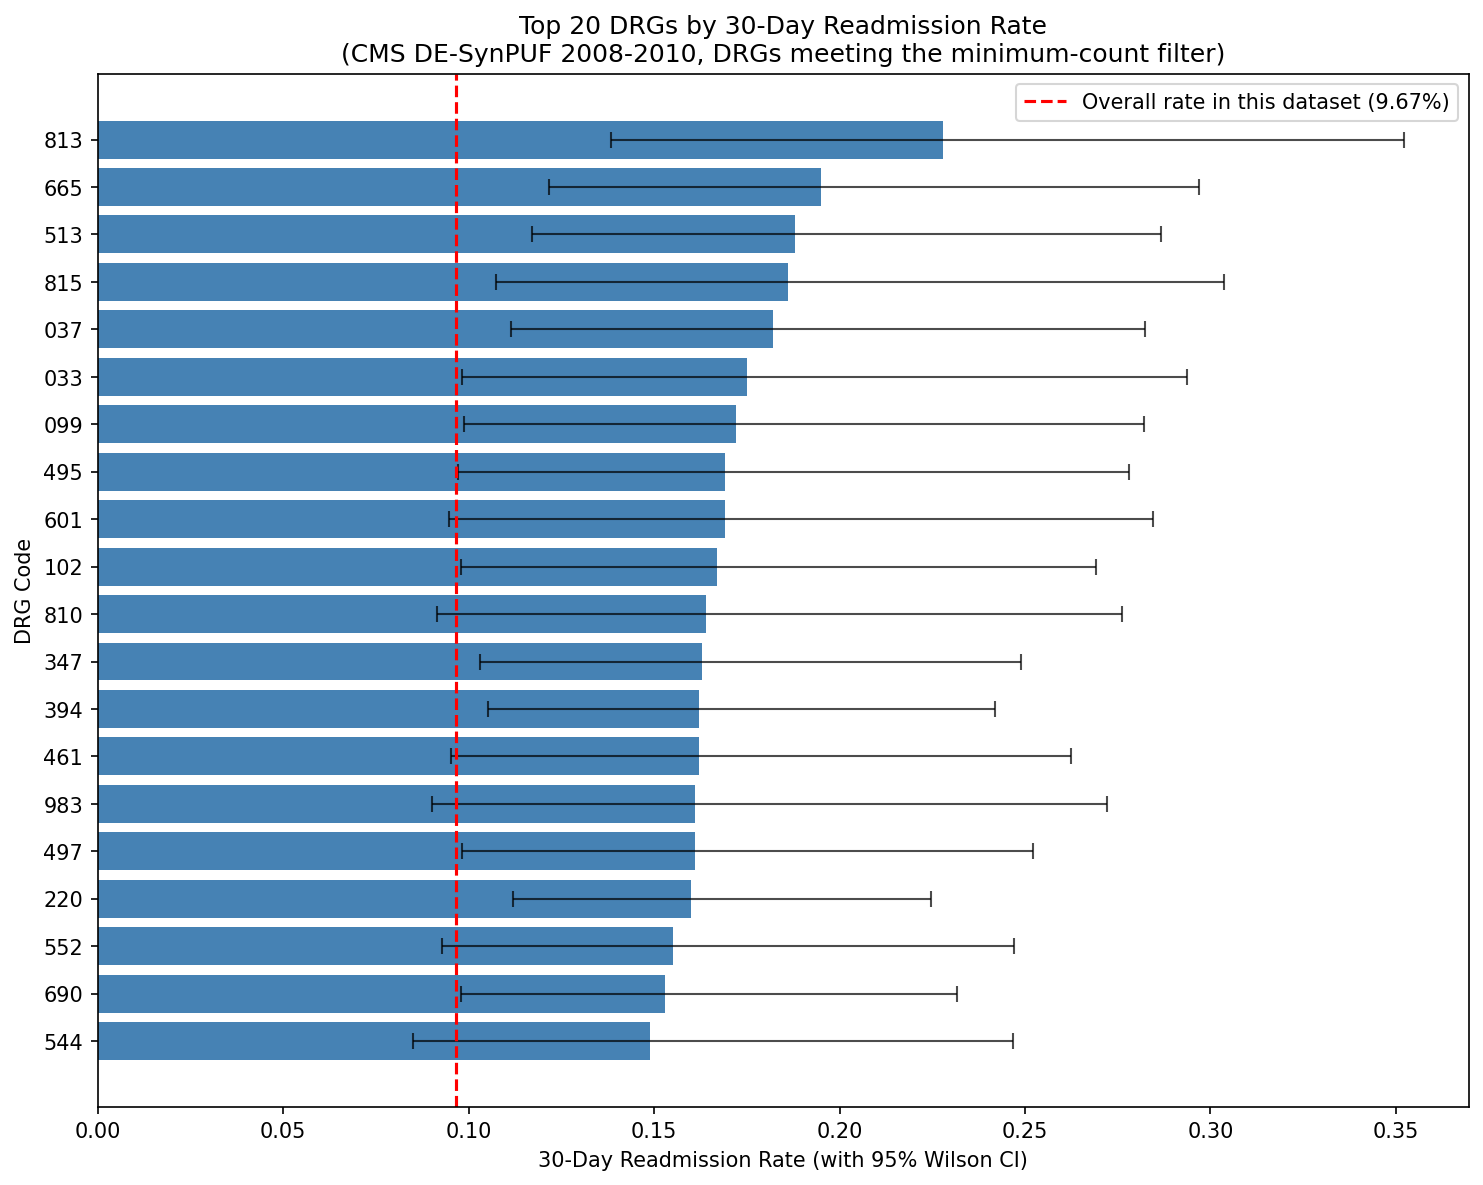
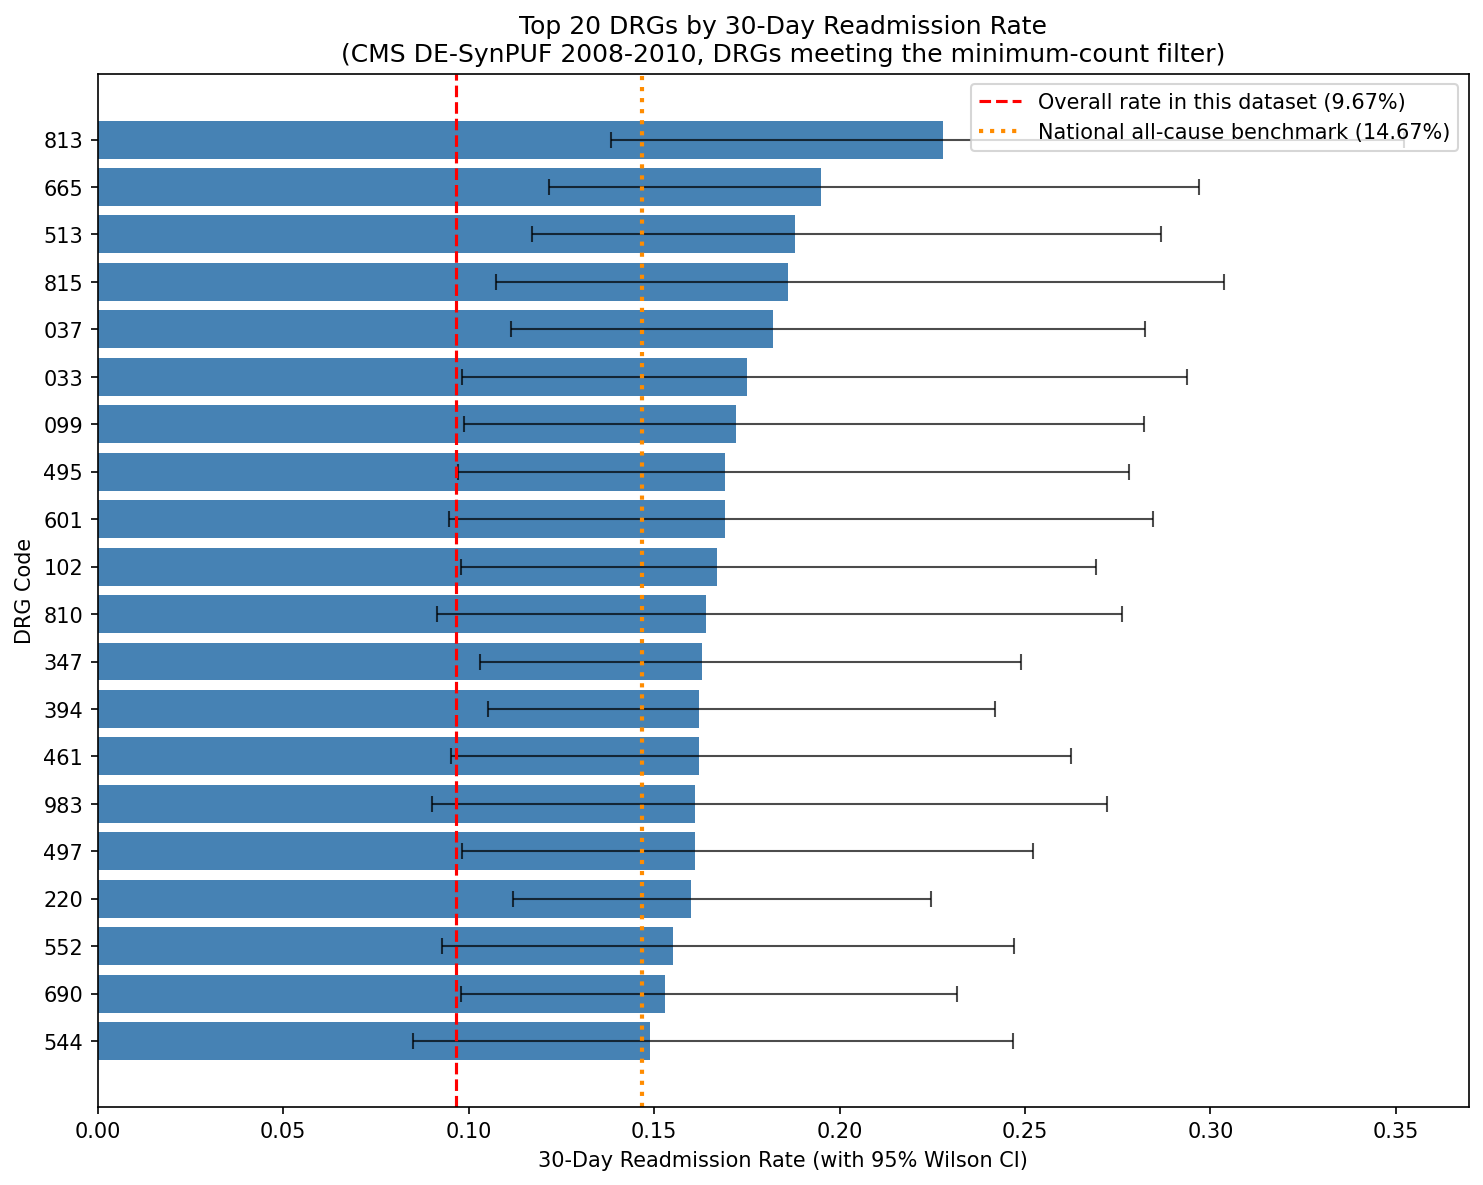
Add national benchmark line and selection caveat to DRG chart
- Add 14.67% national all-cause benchmark (Definitive Healthcare, 2025) as a second reference line on the top-20 DRG readmission chart, alongside the 9.67% dataset rate
- Add caption: these are the top 20 of 256 DRGs meeting the minimum-count filter, so rates likely overstate true values and some intervals above 9.67% are expected by chance
- Regenerate images/top20_drg_readmission_rate.png
- README: Update DRG chart description

Changed region(s): [[0.6514, 0.0624, 0.9926, 0.1249]]

diff --git a/README.md b/README.md
@@ -63,7 +63,7 @@ for the zero-coverage caveat). The PMPM decline from 2008 to 2010 reflects falli
 
 ![Top 20 DRGs by 30-Day Readmission Rate](images/top20_drg_readmission_rate.png) 
 
-*Dashed line: overall 30-day readmission rate in this dataset (9.67%). The 14.67% national benchmark discussed above is context only and is not drawn. Error bars: 95% Wilson CIs. These are the 20 highest rates among DRGs meeting the minimum-count filter, so they tend to overstate true rates.* 
+*Red dashed line: overall 30-day readmission rate in this dataset (9.67%). Yellow dotted line: 2025 national all-cause benchmark (14.67%). Error bars: 95% Wilson CIs. These are the 20 highest rates among the 256 DRGs meeting the minimum-count filter, so they tend to overstate true rates. With 256 DRGs, some intervals will sit above the 9.67% line by chance alone; these DRGs are candidates for continued monitoring, not confirmed high-risk groups.*
 
 ![HRRP Condition Readmission Rates vs National Benchmarks](images/hrrp_condition_benchmark_comparison.png)
 
